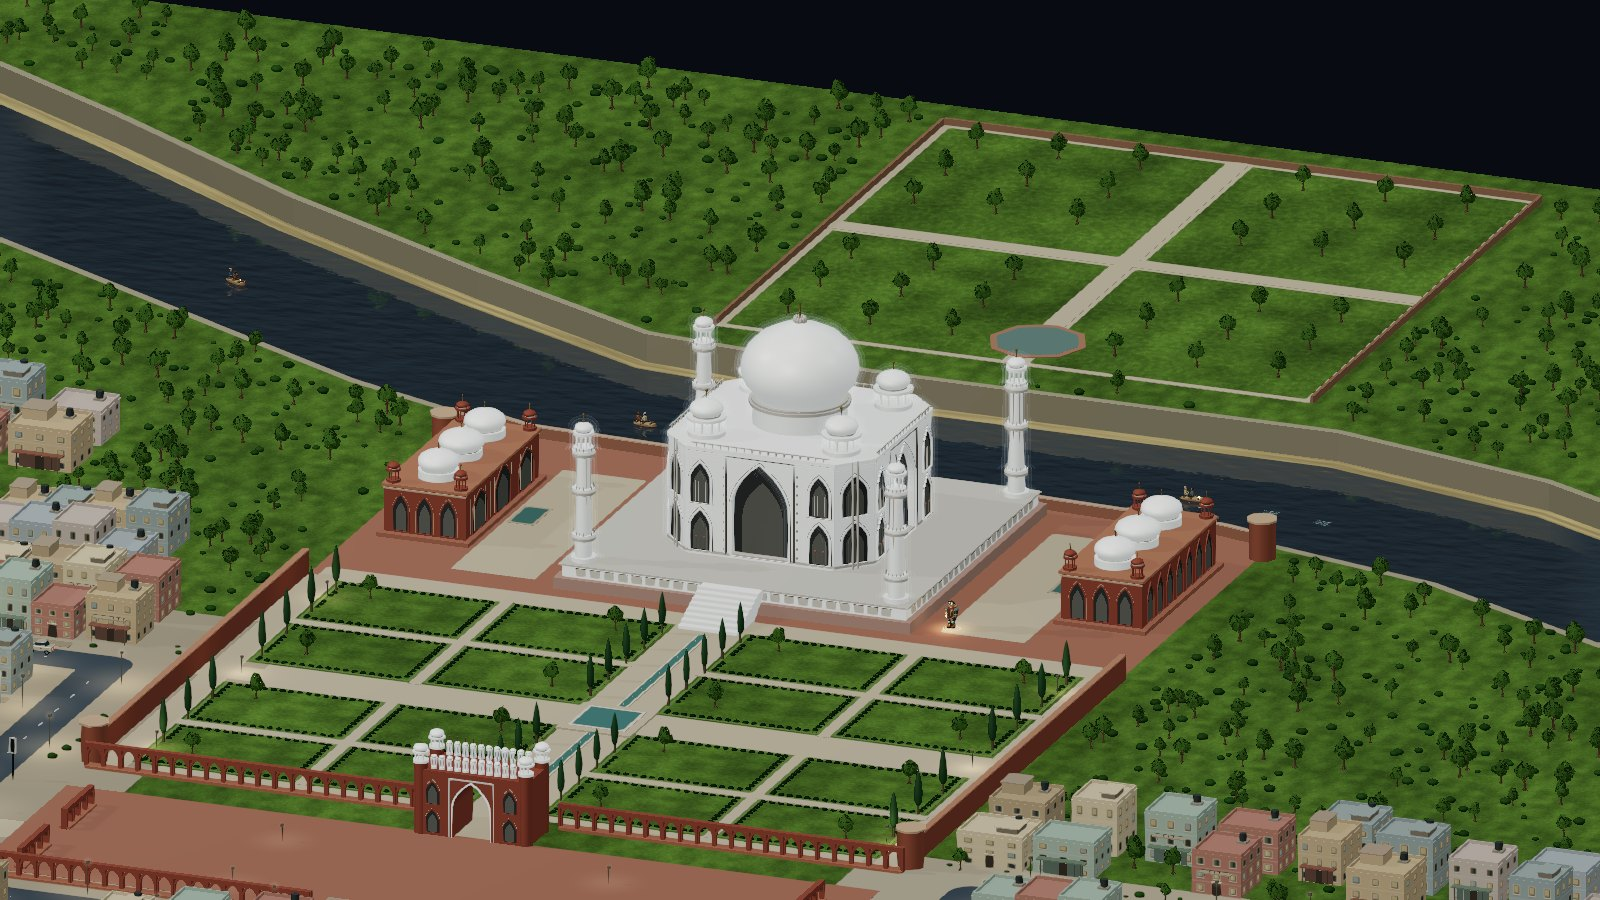
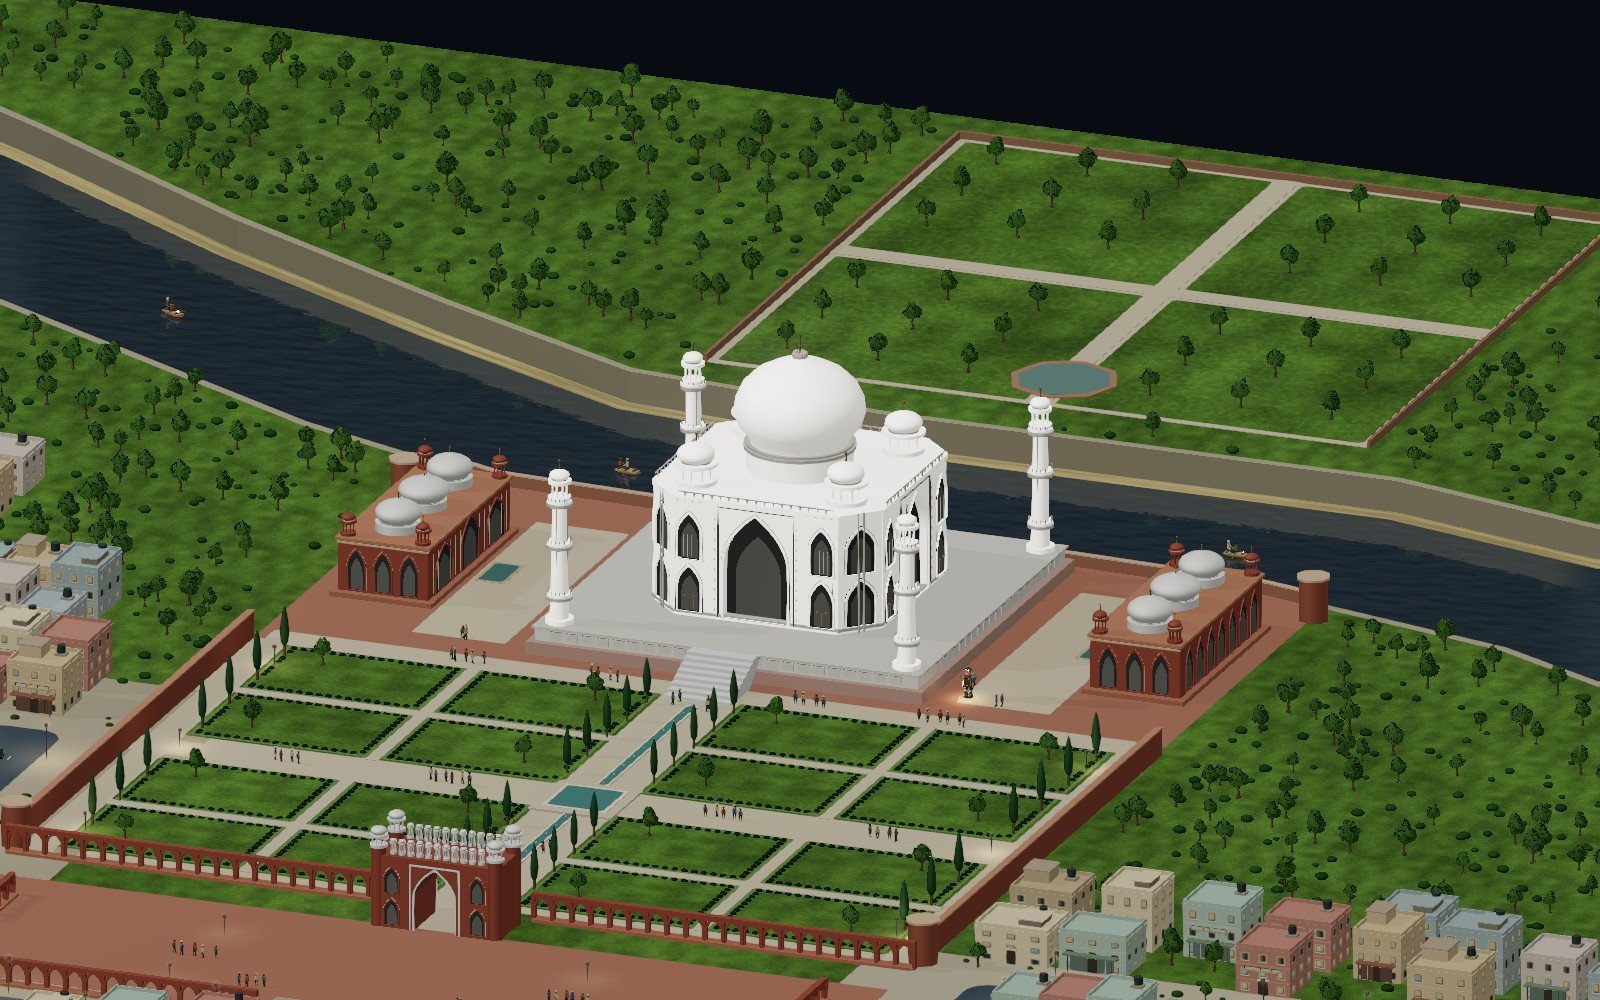
Replace Taj halo with white marble lighting
Remove the layered silhouette aura and illuminate only the Taj's cloned marble materials with a directional white fill. Preserve dome shading, dark arches and the daytime finish without extra geometry or a global bloom change.

Refresh the README night image and document independent front/side/day-return review. Validation: 211 tests, city/UI audits, TypeScript, production build and six static world-loading graphs.

diff --git a/tests/agra.test.ts b/tests/agra.test.ts
@@ -51,29 +51,33 @@ test('Agra geometry and night resources remain bounded with sufficient neighbour
  const taj=scene.getObjectByName('Taj Mahal')!;taj.traverse(o=>{if(o instanceof T.Mesh)for(const mat of Array.isArray(o.material)?o.material:[o.material]){const m=mat as T.MeshStandardMaterial;if(m.emissiveMap)assert.ok(m.userData.agraMarble&&m.emissiveMap===m.map,'Taj must retain stone detail, not an office-window grid');assert.ok(!m.userData.glowStrength,'Taj must not use bright bulb materials');}});
  console.log(`Agra: ${world.homes.length} residences, ${world.objects.trees.size} trees, ${world.shrubs.count} shrubs, ${meshes} meshes, ${Math.round(triangles)} unique triangles, ${maps.size} maps, ${world.streetLamps.length} lamps.`);
 });
-test('night marble preserves carved contrast and restores its daytime finish without new lights',()=>{
- const stones=new Set<T.MeshStandardMaterial>();scene.getObjectByName('Taj Mahal')!.traverse(o=>{if(o instanceof T.Mesh)for(const mat of Array.isArray(o.material)?o.material:[o.material])if(mat.userData.agraMarble)stones.add(mat);});
- assert.equal(stones.size,2);const focus=new T.Vector3(0,2,0);
+test('Taj white fill is restricted to its own marble and restores the daytime finish',()=>{
+ const fill=world.tajNightLighting,stones=fill.materials,focus=new T.Vector3(0,2,0);
+ assert.equal(stones.length,2);
+ const unrelated:T.MeshStandardMaterial[]=[];
+ for(const name of ['Taj Mahal Mosque','Jawab Guesthouse','Taj Mahal · marble riverfront podium and south stair'])scene.getObjectByName(name)!.traverse(o=>{if(o instanceof T.Mesh)for(const mat of Array.isArray(o.material)?o.material:[o.material])if(mat instanceof T.MeshStandardMaterial)unrelated.push(mat);});
+ assert.ok(unrelated.length>0);assert.ok(unrelated.every(m=>!stones.includes(m)&&!m.userData.tajNightFill));
  setNightMaterials(false);world.updateLights(1,focus,0,false);
- const original=[...stones].map(m=>({material:m,color:m.color.getHex(),map:m.map}));
- for(const m of stones){assert.equal(m.emissiveIntensity,0);assert.equal(m.roughness,.68);assert.equal(m.metalness,0);}
- setNightMaterials(true);world.updateLights(1,focus,0,true);
- for(const m of stones){assert.ok(m.emissiveIntensity>.2&&m.emissiveIntensity<=.33);assert.ok(m.roughness>=.32&&m.roughness<.6);assert.equal(m.emissiveMap,m.map);}
- assert.ok([...stones].find(m=>m.userData.agraPolishedDome)!.roughness<[...stones].find(m=>!m.userData.agraPolishedDome)!.roughness);
+ const original=stones.map(m=>({material:m,color:m.color.getHex(),map:m.map}));
+ assert.equal(fill.strength.value,0);
+ for(const m of stones){assert.equal(m.emissiveIntensity,0);assert.equal(m.roughness,.68);assert.equal(m.transparent,false);}
+ setNightMaterials(true);for(let i=0;i<60;i++)world.updateLights(1/30,focus,i/30,true,false,1);
+ assert.ok(fill.strength.value>.98);
+ for(const m of stones){assert.equal(m.emissiveIntensity,0);assert.ok(m.roughness>=.37&&m.roughness<.6);assert.equal(m.transparent,false);}
+ assert.ok(stones.find(m=>m.userData.agraPolishedDome)!.roughness<stones.find(m=>!m.userData.agraPolishedDome)!.roughness);
  const lights:T.PointLight[]=[];scene.traverse(o=>{if(o instanceof T.PointLight)lights.push(o);});assert.equal(lights.length,12);
  setNightMaterials(false);world.updateLights(1,focus,0,false);
  for(const {material:m,color,map} of original){assert.equal(m.emissiveIntensity,0);assert.equal(m.roughness,.68);assert.equal(m.color.getHex(),color);assert.equal(m.map,map);}
- assert.ok(lights.every(light=>light.intensity===0));
+ assert.equal(fill.strength.value,0);assert.ok(lights.every(light=>light.intensity===0));
 });
-test('moon reveal drives a gradual local Taj aura without brightening the dark portals',()=>{
- const focus=new T.Vector3(0,2,0),aura=world.moonAura;
- setNightMaterials(false);world.updateLights(1,focus,0,false);assert.equal(aura.mesh.visible,false);
- setNightMaterials(true);world.updateLights(.1,focus,0,true,false,0);assert.equal(aura.strength.value,0);
- world.updateLights(.1,focus,0,true,false,1);assert.ok(aura.strength.value>.1&&aura.strength.value<.4);
- const partial=aura.strength.value;for(let i=0;i<60;i++)world.updateLights(1/60,focus,i/60,true,false,1);assert.ok(aura.strength.value>partial&&aura.strength.value>.95);
- assert.equal(aura.mesh.material.depthWrite,false);assert.equal(aura.mesh.material.depthTest,true);assert.equal(aura.mesh.material.side,T.BackSide);
- scene.getObjectByName('Taj Mahal')!.traverse(o=>{if(o instanceof T.Mesh&&o.material instanceof T.MeshStandardMaterial&&!o.material.userData.agraMarble)assert.equal(o.material.emissiveIntensity===undefined?0:o.material.emissive.getHex(),0,'Doorways and carved recesses must not become luminous');});
- setNightMaterials(false);world.updateLights(.01,focus,0,false);assert.equal(aura.strength.value,0);assert.equal(aura.mesh.visible,false);
+test('moon reveal gradually lights the Taj surface without halo geometry or luminous portals',()=>{
+ const focus=new T.Vector3(0,2,0),fill=world.tajNightLighting;
+ setNightMaterials(false);world.updateLights(1,focus,0,false);
+ setNightMaterials(true);world.updateLights(.1,focus,0,true,false,0);assert.equal(fill.strength.value,0);
+ world.updateLights(.1,focus,0,true,false,1);assert.ok(fill.strength.value>.1&&fill.strength.value<.5);
+ const partial=fill.strength.value;for(let i=0;i<60;i++)world.updateLights(1/60,focus,i/60,true,false,1);assert.ok(fill.strength.value>partial&&fill.strength.value>.95);
+ scene.getObjectByName('Taj Mahal')!.traverse(o=>{if(o instanceof T.Mesh){assert.ok(!o.geometry.hasAttribute('auraShell'));assert.ok(!o.name.includes('rim'));for(const m of Array.isArray(o.material)?o.material:[o.material]){assert.ok(!(m instanceof T.ShaderMaterial),'No separate halo shader pass');if(m instanceof T.MeshStandardMaterial&&!m.userData.agraMarble)assert.equal(m.emissive.getHex(),0,'Dark portals stay unlit');}}});
+ setNightMaterials(false);world.updateLights(.01,focus,0,false);assert.equal(fill.strength.value,0);
 });
 test('visitor paths connect real home doors to the gardens without cutting through buildings or water',()=>{
  const visitors=world.visitors;assert.equal(visitors.people.length,72);assert.equal(visitors.batches.length,4);assert.ok(visitors.plan.doors.length>=6);

diff --git a/src/worlds/agra/world.ts b/src/worlds/agra/world.ts
@@ -17,8 +17,8 @@ import type {CityAssets} from '../../importedAssets.ts';
 import {strokeGeometry} from '../shared/surfaces.ts';
 import {roadNetworkGeometry} from '../shared/roadNetwork.ts';
 import {PLAN,TAJ,TAJ_SCALE,GARDEN,GATE,MEHTAB,SOUTH_BANK,NORTH_BANK,SOUTH_LAND,NORTH_LAND,AGRA_PATHS,AGRA_LANDMARKS,TRAFFIC_LOOPS,agraLand,agraHeight,agraRoads,southBankAt,northBankAt} from './plan.ts';
-import {tajMahal,terrace,mosque,greatGate,arcade,tajGanjHouse,tajGanjRow,cypressResources,updateAgraMarble} from './architecture.ts';
-import {createTajMoonAura} from './moonAura.ts';
+import {tajMahal,terrace,mosque,greatGate,arcade,tajGanjHouse,tajGanjRow,cypressResources} from './architecture.ts';
+import {createTajNightLighting} from './nightLighting.ts';
 import {agraVisitorPlan,TajVisitors} from './visitors.ts';
 import {addRiverboatPeople} from '../../miniPeople.ts';
 
@@ -64,7 +64,7 @@ export function createAgraWorld(scene:T.Scene,_assets:CityAssets={loaded:[]}) {
   const podium=terrace();podium.scale.setScalar(TAJ_SCALE);staticRoot(podium,TAJ.x,TAJ.z,'Taj Mahal · marble riverfront podium and south stair');
   const tajBoxes:Obstacle[]=[{x:0,z:TAJ.z,w:10.36*TAJ_SCALE,d:10.36*TAJ_SCALE},...[-1,1].flatMap(x=>[-1,1].map(z=>({x:x*7.88*TAJ_SCALE,z:TAJ.z+z*7.88*TAJ_SCALE,w:1.44*TAJ_SCALE,d:1.44*TAJ_SCALE})))];
   const taj=tajMahal();taj.scale.setScalar(TAJ_SCALE);landmarkRoots.push(place(taj,0,TAJ.z,'Taj Mahal','taj',tajBoxes).root);
-  const moonAura=createTajMoonAura(taj);let moonlight=0;
+  const tajNightLighting=createTajNightLighting(taj);let moonlight=0;
   for(const side of [-1,1]){const model=mosque(side===1);model.scale.setScalar(1.2);landmarkRoots.push(place(model,side*29,TAJ.z,side<0?'Taj Mahal Mosque':'Jawab Guesthouse',side<0?'taj-mosque':'jawab').root);}
   const gate=place(greatGate(),GATE.x,GATE.z,'Darwaza-i Rauza','great-gate',[{x:-3.35,z:GATE.z,w:3.5,d:4.6},{x:3.35,z:GATE.z,w:3.5,d:4.6}]);landmarkRoots.push(gate.root);
   // The enlarged ensemble preserves bilateral symmetry and stands entirely on
@@ -219,7 +219,7 @@ export function createAgraWorld(scene:T.Scene,_assets:CityAssets={loaded:[]}) {
   const updateLights=(dt:number,focus:T.Vector3,_time:number,night:boolean,reduced=false,moonReveal=night?1:0)=>{
     const target=night?T.MathUtils.clamp(moonReveal,0,1):0;
     moonlight=night?T.MathUtils.lerp(moonlight,target,1-Math.exp(-Math.max(0,dt)*3)):0;
-    updateAgraMarble(night,moonlight);moonAura.update(moonlight);visitors.update(dt,night,reduced);groundGlows.update();localLighting.update(dt,focus,night);
+    tajNightLighting.update(moonlight);visitors.update(dt,night,reduced);groundGlows.update();localLighting.update(dt,focus,night);
   };update(0);
-  return {obstacles,roads,objects,water,river,traffic,boats,wakes,visitors,moonAura,update,updateLights,updateClock:(_date=new Date())=>{},landmarks:AGRA_LANDMARKS,localLighting,groundGlows,beacons:[],streetLamps,railings,furniture:[],bins:[],hydrants:[],gardens:PLAN.map.gardens,circularSites:[],towers:landmarkRoots,homes,housingUnits:homes.reduce((n,h)=>n+(h.userData.houseCount??1),0),bridgeRoots:[],shrubs};
+  return {obstacles,roads,objects,water,river,traffic,boats,wakes,visitors,tajNightLighting,update,updateLights,updateClock:(_date=new Date())=>{},landmarks:AGRA_LANDMARKS,localLighting,groundGlows,beacons:[],streetLamps,railings,furniture:[],bins:[],hydrants:[],gardens:PLAN.map.gardens,circularSites:[],towers:landmarkRoots,homes,housingUnits:homes.reduce((n,h)=>n+(h.userData.houseCount??1),0),bridgeRoots:[],shrubs};
 }

diff --git a/src/worlds/agra/nightLighting.ts b/src/worlds/agra/nightLighting.ts
@@ -1,0 +1,37 @@
+import * as T from 'three';
+
+/** A white directional fill restricted to the Taj's marble materials. It lights
+ * the existing surface only: no shells, transparent outlines or extra passes. */
+export function createTajNightLighting(taj:T.Object3D) {
+  const strength={value:0},materials=new Map<T.Material,T.MeshStandardMaterial>();
+  taj.traverse(object=>{
+    if(!(object instanceof T.Mesh))return;
+    const illuminate=(source:T.Material)=>{
+      if(!(source instanceof T.MeshStandardMaterial)||!source.userData.agraMarble)return source;
+      let material=materials.get(source);
+      if(!material){
+        material=source.clone();material.name='Taj marble · private white moon fill';
+        material.emissiveIntensity=0;material.userData.tajNightFill=true;
+        material.onBeforeCompile=shader=>{
+          shader.uniforms.tajMoonFill=strength;
+          shader.vertexShader='varying vec3 vTajFillNormal;\n'+shader.vertexShader;
+          shader.vertexShader=shader.vertexShader.replace('#include <defaultnormal_vertex>',
+            '#include <defaultnormal_vertex>\nvTajFillNormal=normalize(mat3(modelMatrix)*objectNormal);');
+          shader.fragmentShader='uniform float tajMoonFill; varying vec3 vTajFillNormal;\n'+shader.fragmentShader;
+          shader.fragmentShader=shader.fragmentShader.replace('#include <lights_fragment_end>',
+            `#include <lights_fragment_end>
+            float tajFacing=max(dot(normalize(vTajFillNormal),normalize(vec3(-.4,.8,.55))),0.);
+            reflectedLight.indirectDiffuse+=diffuseColor.rgb*tajMoonFill*(.32+.68*tajFacing);`);
+        };
+        material.customProgramCacheKey=()=> 'taj-white-moon-fill-v1';
+        materials.set(source,material);
+      }
+      return material;
+    };
+    object.material=Array.isArray(object.material)?object.material.map(illuminate):illuminate(object.material);
+  });
+  return {strength,materials:[...materials.values()],update:(reveal:number)=>{
+    const amount=T.MathUtils.clamp(reveal,0,1);strength.value=amount;
+    for(const material of materials.values())material.roughness=.68-amount*(material.userData.agraPolishedDome?.30:.12);
+  }};
+}

diff --git a/src/worlds/agra/architecture.ts b/src/worlds/agra/architecture.ts
@@ -12,17 +12,10 @@ const marbleMap=canvasTexture(256,256,c=>{
   c.strokeStyle='rgba(130,122,112,.07)';c.lineWidth=.6;
   for(let i=0;i<7;i++){c.beginPath();for(let x=0;x<=256;x+=8){const y=i*43+Math.sin(x*.027+i)*5;x?c.lineTo(x,y):c.moveTo(x,y);}c.stroke();}
 });marbleMap.wrapS=marbleMap.wrapT=T.RepeatWrapping;
-// A small ambient moon bounce lifts the stone without filling its dark recesses.
-// Reuse the stone map, so there is no extra texture or window-style illumination.
-const marble=registerGlow(new T.MeshStandardMaterial({color:'#ffffff',map:marbleMap,emissiveMap:marbleMap,emissive:'#d3e0ea',roughness:.68,metalness:0}),0);marble.userData.worldTile=2.6;marble.userData.agraMarble=true;
-const domeMarble=registerGlow(marble.clone(),0);domeMarble.userData.agraPolishedDome=true;
-export function updateAgraMarble(night:boolean,reveal=night?1:0) {
-  // Smooth curved stone catches a localized moon highlight; walls stay softly matte.
-  // The original daytime material is restored exactly when changing theme.
-  const strength=night?T.MathUtils.clamp(reveal,0,1):0;
-  marble.emissiveIntensity=strength*.26;domeMarble.emissiveIntensity=strength*.32;
-  marble.roughness=.68-strength*.18;domeMarble.roughness=.68-strength*.34;
-}
+// Base stone stays unlit outside the monument. Its private night fill is applied
+// only to the Taj's cloned materials by nightLighting.ts.
+const marble=new T.MeshStandardMaterial({color:'#ffffff',map:marbleMap,roughness:.68,metalness:0});marble.userData.worldTile=2.6;marble.userData.agraMarble=true;
+const domeMarble=marble.clone();domeMarble.userData.agraPolishedDome=true;
 const shadow=material('#464845'),red=material(sandstone),gold=material('#b99a5c',.36,.55);
 const inlayLine=new T.MeshStandardMaterial({color:inlay,roughness:.81,polygonOffset:true,polygonOffsetFactor:-1,polygonOffsetUnits:-1});inlayLine.userData.noShadow=true;
 

diff --git a/README.md b/README.md
@@ -80,7 +80,7 @@ The inland Cubbon Park civic district: a larger Vidhana Soudha, Attara Kacheri, 
 
 ## Chapter 004 · Agra
 
-A grander Taj Mahal beside the Yamuna, with four detached minarets, mosque, jawab, charbagh and Great Gate; Mehtab Bagh lies across the river. The monument and precinct are artistically enlarged, with 184 varied dwellings around Taj Ganj. As the Moon rises, the marble gradually brightens with cool highlights and a restrained luminous rim. Seventy-two tourists visit the gardens by day, walk through the gate into nearby homes at dusk, and emerge gradually at dawn. Seated rowers and passengers ride the Yamuna boats; 83 street and garden lamps light the district through the existing twelve-light pool.
+A grander Taj Mahal beside the Yamuna, with four detached minarets, mosque, jawab, charbagh and Great Gate; Mehtab Bagh lies across the river. The monument and precinct are artistically enlarged, with 184 varied dwellings around Taj Ganj. As the Moon rises, a dedicated white fill gradually lights only the Taj’s marble surfaces, with clean edges and dark arch recesses. Seventy-two tourists visit the gardens by day, walk through the gate into nearby homes at dusk, and emerge gradually at dawn. Seated rowers and passengers ride the Yamuna boats; 83 street and garden lamps light the district through the existing twelve-light pool.
 
 | Day | Night |
 | --- | --- |

diff --git a/docs/taj-white-review.md b/docs/taj-white-review.md
@@ -1,0 +1,7 @@
+# Taj white-marble visual review
+
+Reviewed 29 October 2026 using matched production-renderer captures in `artifacts/taj-white-review/`: `day.png`, `night.png`, `night-side.png` and `day-return.png`.
+
+**Approved:** the Taj now becomes bright white stone at night without a layered aura, halo or doubled outline. The revised directional fill (strength 1.0, facing weight `.32 + .68 × facing`) retains a visible lower-dome gradient, minaret bands and dark arch recesses from both reviewed viewpoints. The first 1.35-fill candidate was reduced because it flattened the dome. The final treatment keeps the white marble visibly brighter than the surrounding sandstone buildings.
+
+Returning to daytime restores the normal marble shading and dome curvature. No residual night fill or outline is visible. The capture report records no browser or shader errors. This review covers the saved day/night views; continuous transition and exported film quality are checked separately in the recording review.

diff --git a/docs/RELEASE.md b/docs/RELEASE.md
@@ -1,5 +1,10 @@
 # World release validation
 
+## 29 October 2026 · Taj surface lighting
+
+The Taj’s layered silhouette halo is removed. A white directional fill now affects only cloned marble materials on the monument, keeping its arches dark and surrounding buildings unchanged. It follows Moon reveal, restores the daytime finish, and adds no geometry, outline, global bloom or extra light pool.
+
+
 Updated: 28 October 2026. Same Node.js 24 / Three.js / Vite toolchain as the first release. The lockfile remains authoritative.
 
 ## Six-world refinement
